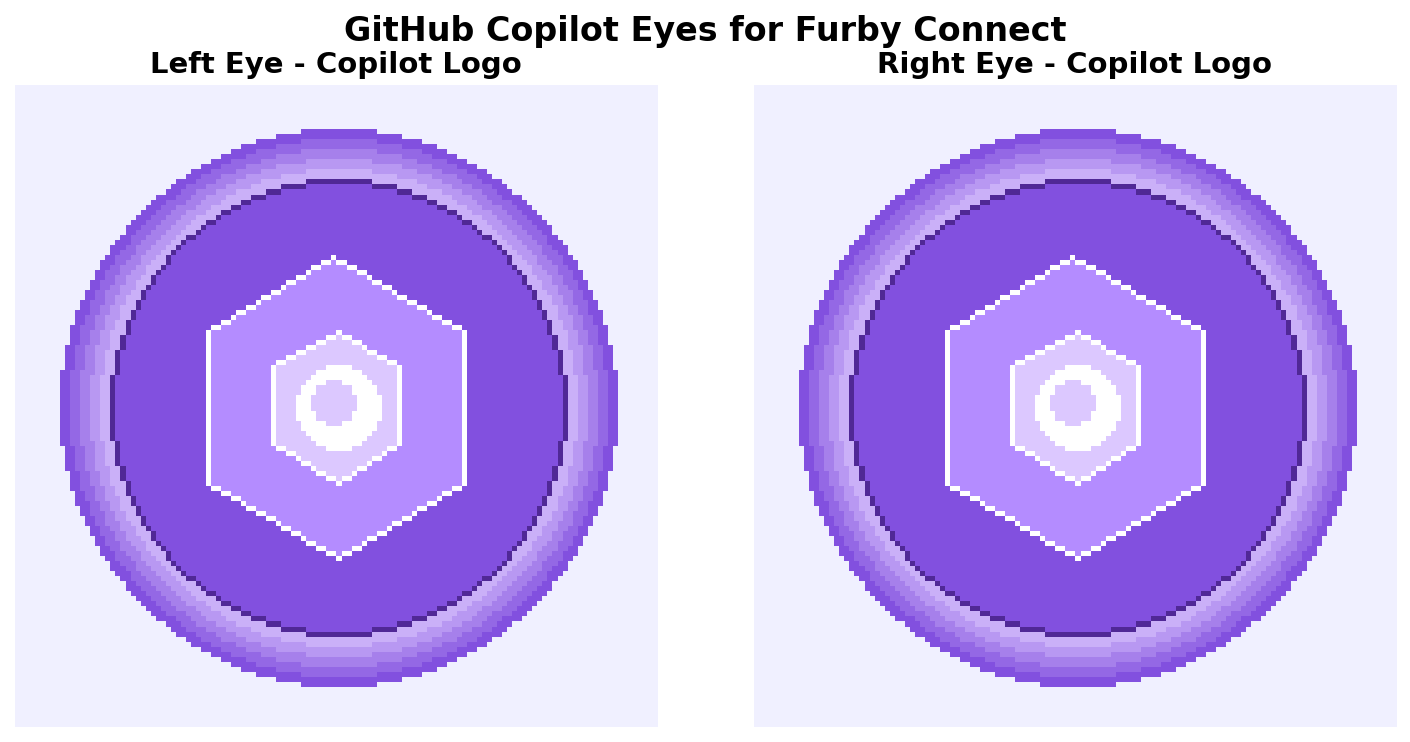
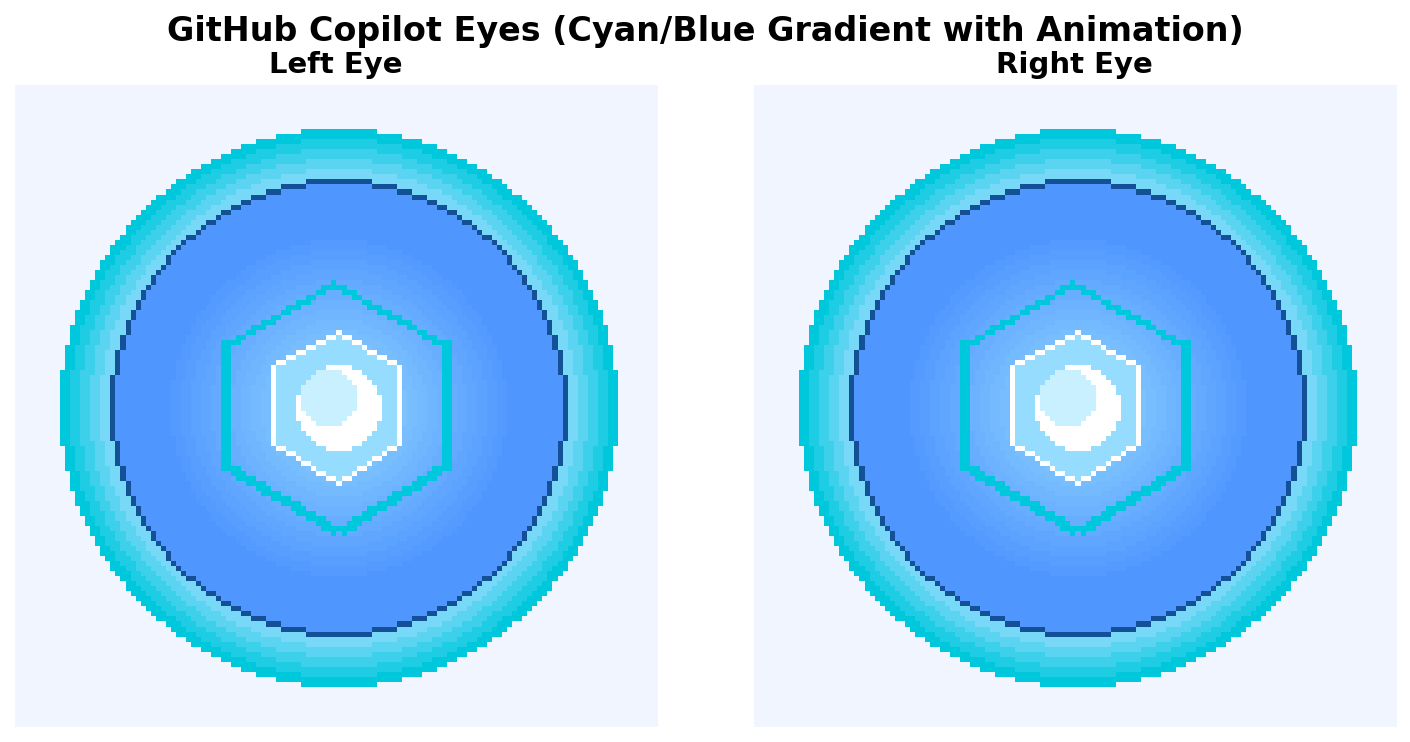
Fix code review issues and add animated Copilot eyes with cyan/blue gradient

diff --git a/copilot_eyes.py b/copilot_eyes.py
@@ -21,7 +21,8 @@ from furby import dlc
 def make_copilot_eyes(dlc_in="./dlc/dlc2/tu003410.dlc", 
                       left_gif="./images/copilot_eyes/left.gif", 
                       right_gif="./images/copilot_eyes/right.gif", 
-                      dlc_out="./copilot_furby.dlc"):
+                      dlc_out="./copilot_furby.dlc",
+                      animated=True):
     """
     Create a custom Furby DLC with Copilot logo on the eyes.
     
@@ -30,28 +31,56 @@ def make_copilot_eyes(dlc_in="./dlc/dlc2/tu003410.dlc",
         left_gif: Path to the left eye GIF image (128x128, 64-color palette)
         right_gif: Path to the right eye GIF image (128x128, 64-color palette)
         dlc_out: Path to the output DLC file
+        animated: If True, use multiple frames for animation (requires _0.gif, _1.gif etc.)
     """
 
     # Open the DLC and shrink audio to reduce file size
     D = dlc(dlc_in)
     D.dlc_sections["AMF"].minify_audio()
 
-    # Extract palettes from the GIF files
-    left_palette = D.dlc_sections["PAL"].extract_palette(left_gif)
-    right_palette = D.dlc_sections["PAL"].extract_palette(right_gif)
+    # For animated eyes, we'll use multiple frame GIFs
+    if animated:
+        # Load frame 0 and frame 1 for animation
+        left_gif_frame0 = left_gif.replace('.gif', '_0.gif')
+        left_gif_frame1 = left_gif.replace('.gif', '_1.gif')
+        right_gif_frame0 = right_gif.replace('.gif', '_0.gif')
+        right_gif_frame1 = right_gif.replace('.gif', '_1.gif')
+        
+        # Extract palettes (use frame 0 palette for both)
+        left_palette = D.dlc_sections["PAL"].extract_palette(left_gif_frame0)
+        right_palette = D.dlc_sections["PAL"].extract_palette(right_gif_frame0)
 
-    # Quarterize the GIF files (convert 128x128 to four 64x64 quarters)
-    left_cels = D.dlc_sections["CEL"].quarterize(left_gif)
-    right_cels = D.dlc_sections["CEL"].quarterize(right_gif)
+        # Quarterize both frames for left eye
+        left_cels_frame0 = D.dlc_sections["CEL"].quarterize(left_gif_frame0)
+        left_cels_frame1 = D.dlc_sections["CEL"].quarterize(left_gif_frame1)
+        
+        # Quarterize both frames for right eye
+        right_cels_frame0 = D.dlc_sections["CEL"].quarterize(right_gif_frame0)
+        right_cels_frame1 = D.dlc_sections["CEL"].quarterize(right_gif_frame1)
+        
+        # Combine all cels
+        all_left_cels = left_cels_frame0 + left_cels_frame1
+        all_right_cels = right_cels_frame0 + right_cels_frame1
+    else:
+        # Extract palettes from the GIF files
+        left_palette = D.dlc_sections["PAL"].extract_palette(left_gif)
+        right_palette = D.dlc_sections["PAL"].extract_palette(right_gif)
+
+        # Quarterize the GIF files (convert 128x128 to four 64x64 quarters)
+        left_cels = D.dlc_sections["CEL"].quarterize(left_gif)
+        right_cels = D.dlc_sections["CEL"].quarterize(right_gif)
+        
+        all_left_cels = left_cels
+        all_right_cels = right_cels
 
     # Keep transparent cel at index 0
-    # Move blank cell to cel 1 (currently at index 17)
+    # Move blank cel to cel 1 (currently at index 17)
     for y in range(64):
         for x in range(64):
             D.dlc_sections["CEL"].cels[1][y][x] = D.dlc_sections["CEL"].cels[17][y][x]
 
     # Replace cels with our Copilot logo cels
-    D.dlc_sections["CEL"].cels = D.dlc_sections["CEL"].cels[:2] + left_cels + right_cels
+    D.dlc_sections["CEL"].cels = D.dlc_sections["CEL"].cels[:2] + all_left_cels + all_right_cels
 
     # Replace palettes with our new palettes
     victim_palette_L = 4  # chilli palette - used for left eye
@@ -116,7 +145,7 @@ def make_copilot_eyes(dlc_in="./dlc/dlc2/tu003410.dlc",
             D.dlc_sections["SPR"].frames[f][7] = eye_palette
 
     # Replace left-eye flame frames with left Copilot logo
-    # First frame (quarters 2, 3, 4, 5)
+    # First frame (quarters 2, 3, 4, 5) - frame 0 of animation
     for f in D.dlc_sections["SPR"].frame_playlists[13]["frame_indices"][:10] + D.dlc_sections["SPR"].frame_playlists[13]["frame_indices"][19:29]:
         D.dlc_sections["SPR"].frames[f][0] = 2
         D.dlc_sections["SPR"].frames[f][2] = 3
@@ -128,42 +157,73 @@ def make_copilot_eyes(dlc_in="./dlc/dlc2/tu003410.dlc",
         D.dlc_sections["SPR"].frames[f][5] = chilli_palette
         D.dlc_sections["SPR"].frames[f][7] = chilli_palette
 
-    # Second frame (quarters 6, 7, 8, 9) - same as first for static logo
-    for f in D.dlc_sections["SPR"].frame_playlists[13]["frame_indices"][10:19] + D.dlc_sections["SPR"].frame_playlists[13]["frame_indices"][29:38]:
-        D.dlc_sections["SPR"].frames[f][0] = 2
-        D.dlc_sections["SPR"].frames[f][2] = 3
-        D.dlc_sections["SPR"].frames[f][4] = 4
-        D.dlc_sections["SPR"].frames[f][6] = 5
+    # Second frame (quarters 6, 7, 8, 9) - frame 1 of animation for pulsing effect
+    if animated:
+        # Use frame 1 cels for animation
+        for f in D.dlc_sections["SPR"].frame_playlists[13]["frame_indices"][10:19] + D.dlc_sections["SPR"].frame_playlists[13]["frame_indices"][29:38]:
+            D.dlc_sections["SPR"].frames[f][0] = 6
+            D.dlc_sections["SPR"].frames[f][2] = 7
+            D.dlc_sections["SPR"].frames[f][4] = 8
+            D.dlc_sections["SPR"].frames[f][6] = 9
 
-        D.dlc_sections["SPR"].frames[f][1] = chilli_palette
-        D.dlc_sections["SPR"].frames[f][3] = chilli_palette
-        D.dlc_sections["SPR"].frames[f][5] = chilli_palette
-        D.dlc_sections["SPR"].frames[f][7] = chilli_palette
+            D.dlc_sections["SPR"].frames[f][1] = chilli_palette
+            D.dlc_sections["SPR"].frames[f][3] = chilli_palette
+            D.dlc_sections["SPR"].frames[f][5] = chilli_palette
+            D.dlc_sections["SPR"].frames[f][7] = chilli_palette
+    else:
+        # Static: use same frame
+        for f in D.dlc_sections["SPR"].frame_playlists[13]["frame_indices"][10:19] + D.dlc_sections["SPR"].frame_playlists[13]["frame_indices"][29:38]:
+            D.dlc_sections["SPR"].frames[f][0] = 2
+            D.dlc_sections["SPR"].frames[f][2] = 3
+            D.dlc_sections["SPR"].frames[f][4] = 4
+            D.dlc_sections["SPR"].frames[f][6] = 5
+
+            D.dlc_sections["SPR"].frames[f][1] = chilli_palette
+            D.dlc_sections["SPR"].frames[f][3] = chilli_palette
+            D.dlc_sections["SPR"].frames[f][5] = chilli_palette
+            D.dlc_sections["SPR"].frames[f][7] = chilli_palette
 
     # Replace right-eye flame frames with right Copilot logo
-    # First frame (quarters 10, 11, 12, 13)
+    # First frame (quarters 10, 11, 12, 13) - frame 0 of animation
+    # Note: For animated mode, right eye cels start at index 2 + 8 (left cels) = 10
+    right_cel_offset = 10 if animated else 6
+    
     for f in D.dlc_sections["SPR"].frame_playlists[12]["frame_indices"][:10] + D.dlc_sections["SPR"].frame_playlists[12]["frame_indices"][19:29]:
-        D.dlc_sections["SPR"].frames[f][0] = 6
-        D.dlc_sections["SPR"].frames[f][2] = 7
-        D.dlc_sections["SPR"].frames[f][4] = 8
-        D.dlc_sections["SPR"].frames[f][6] = 9
+        D.dlc_sections["SPR"].frames[f][0] = right_cel_offset
+        D.dlc_sections["SPR"].frames[f][2] = right_cel_offset + 1
+        D.dlc_sections["SPR"].frames[f][4] = right_cel_offset + 2
+        D.dlc_sections["SPR"].frames[f][6] = right_cel_offset + 3
 
         D.dlc_sections["SPR"].frames[f][1] = flame_palette
         D.dlc_sections["SPR"].frames[f][3] = flame_palette
         D.dlc_sections["SPR"].frames[f][5] = flame_palette
         D.dlc_sections["SPR"].frames[f][7] = flame_palette
         
-    # Second frame - same as first for static logo
-    for f in D.dlc_sections["SPR"].frame_playlists[12]["frame_indices"][10:19] + D.dlc_sections["SPR"].frame_playlists[12]["frame_indices"][29:38]:
-        D.dlc_sections["SPR"].frames[f][0] = 6
-        D.dlc_sections["SPR"].frames[f][2] = 7
-        D.dlc_sections["SPR"].frames[f][4] = 8
-        D.dlc_sections["SPR"].frames[f][6] = 9
+    # Second frame - frame 1 for animation or same frame for static
+    if animated:
+        # Use frame 1 cels for animation
+        for f in D.dlc_sections["SPR"].frame_playlists[12]["frame_indices"][10:19] + D.dlc_sections["SPR"].frame_playlists[12]["frame_indices"][29:38]:
+            D.dlc_sections["SPR"].frames[f][0] = right_cel_offset + 4
+            D.dlc_sections["SPR"].frames[f][2] = right_cel_offset + 5
+            D.dlc_sections["SPR"].frames[f][4] = right_cel_offset + 6
+            D.dlc_sections["SPR"].frames[f][6] = right_cel_offset + 7
 
-        D.dlc_sections["SPR"].frames[f][1] = flame_palette
-        D.dlc_sections["SPR"].frames[f][3] = flame_palette
-        D.dlc_sections["SPR"].frames[f][5] = flame_palette
-        D.dlc_sections["SPR"].frames[f][7] = flame_palette
+            D.dlc_sections["SPR"].frames[f][1] = flame_palette
+            D.dlc_sections["SPR"].frames[f][3] = flame_palette
+            D.dlc_sections["SPR"].frames[f][5] = flame_palette
+            D.dlc_sections["SPR"].frames[f][7] = flame_palette
+    else:
+        # Static: use same frame
+        for f in D.dlc_sections["SPR"].frame_playlists[12]["frame_indices"][10:19] + D.dlc_sections["SPR"].frame_playlists[12]["frame_indices"][29:38]:
+            D.dlc_sections["SPR"].frames[f][0] = right_cel_offset
+            D.dlc_sections["SPR"].frames[f][2] = right_cel_offset + 1
+            D.dlc_sections["SPR"].frames[f][4] = right_cel_offset + 2
+            D.dlc_sections["SPR"].frames[f][6] = right_cel_offset + 3
+
+            D.dlc_sections["SPR"].frames[f][1] = flame_palette
+            D.dlc_sections["SPR"].frames[f][3] = flame_palette
+            D.dlc_sections["SPR"].frames[f][5] = flame_palette
+            D.dlc_sections["SPR"].frames[f][7] = flame_palette
 
     # Build the new DLC file
     D.build(dlc_out)

diff --git a/example_copilot.py b/example_copilot.py
@@ -6,8 +6,6 @@
 #  Example script showing how to use the Copilot eyes functionality
 #
 
-from furby import dlc
-
 # Example 1: Generate Copilot eyes DLC with default settings
 def example_basic():
     """
@@ -28,7 +26,7 @@ def example_custom_output():
     from copilot_eyes import make_copilot_eyes
     
     output_path = "./my_custom_furby.dlc"
-    print(f"Generating Copilot eyes DLC to {output_path}...")
+    print("Generating Copilot eyes DLC to {}...".format(output_path))
     make_copilot_eyes(dlc_out=output_path)
     print("Done!")
 
@@ -45,7 +43,7 @@ def example_custom_eyes():
     right_eye = "./my_right_eye.gif"
     output = "./my_furby.dlc"
     
-    print(f"Generating DLC with custom eyes...")
+    print("Generating DLC with custom eyes...")
     make_copilot_eyes(
         left_gif=left_eye,
         right_gif=right_eye,

diff --git a/images/copilot_eyes/README.md b/images/copilot_eyes/README.md
@@ -1,6 +1,6 @@
 # GitHub Copilot Eyes for Furby Connect
 
-This directory contains custom eye images designed to display the GitHub Copilot logo on Furby's eyes.
+This directory contains custom eye images designed to display the GitHub Copilot logo on Furby's eyes with animated pulsing effect.
 
 ![Copilot Eyes Preview](preview.png)
 
@@ -8,17 +8,33 @@ This directory contains custom eye images designed to display the GitHub Copilot
 
 - `left.gif` - Left eye image with Copilot logo (128x128, 64-color palette)
 - `right.gif` - Right eye image with Copilot logo (128x128, 64-color palette)
+- `left_0.gif` through `left_3.gif` - Animation frames for left eye
+- `right_0.gif` through `right_3.gif` - Animation frames for right eye
 - `preview.png` - Preview image showing both eyes
+
+## Features
+
+- **Animated pulsing effect**: Subtle breathing animation with 4 frames
+- **Cyan/blue gradient**: Matches GitHub Copilot's brand colors
+- **Hexagonal design**: Inspired by the GitHub Copilot logo
+- **Glowing effect**: Outer glow creates a luminous appearance
 
 ## Usage
 
-To create a custom DLC with the Copilot logo on Furby's eyes, use the `copilot_eyes.py` script:
+To create a custom DLC with the animated Copilot logo on Furby's eyes:
 
 ```bash
 python copilot_eyes.py
 ```
 
-This will generate a `copilot_furby.dlc` file that can be uploaded to your Furby Connect.
+This will generate a `copilot_furby.dlc` file with animated eyes that can be uploaded to your Furby Connect.
+
+For static (non-animated) eyes:
+
+```python
+from copilot_eyes import make_copilot_eyes
+make_copilot_eyes(animated=False)
+```
 
 **Note**: This repository was originally written for Python 2. If you encounter compatibility issues with Python 3, you may need to use Python 2 or apply Python 2to3 conversion to the `furby.py` file.
 
@@ -28,8 +44,9 @@ The eye images follow the Furby Connect DLC specifications:
 - **Size**: 128x128 pixels
 - **Format**: GIF with indexed color palette
 - **Colors**: Up to 64 colors in the palette
-- **Design**: Features the GitHub Copilot hexagonal logo design in purple tones
+- **Design**: Features the GitHub Copilot logo design in cyan/blue gradient tones
+- **Animation**: 4 frames with subtle pulsing effect
 
 ## Customization
 
-You can create your own eye images by following these specifications. The images will be automatically converted to the appropriate format when processed by the `copilot_eyes.py` script.
+You can create your own eye images by following these specifications. For animated eyes, create multiple frames named `_0.gif`, `_1.gif`, etc. The images will be automatically converted to the appropriate format when processed by the `copilot_eyes.py` script.

diff --git a/README.md b/README.md
@@ -174,19 +174,25 @@ D.build("/tmp/minified_dlc.dlc")
 
 ## GitHub Copilot Eyes
 
-Want to make the GitHub Copilot logo appear on your Furby's eyes? We've included a ready-to-use script for that!
+Want to make the GitHub Copilot logo appear on your Furby's eyes with animated pulsing effect? We've included a ready-to-use script for that!
 
 <p align="center">
 	<img src="images/copilot_eyes/preview.png" width="600">
 </p>
 
-The `copilot_eyes.py` script creates a custom DLC that displays the GitHub Copilot logo on Furby's eyes:
+The `copilot_eyes.py` script creates a custom DLC that displays the GitHub Copilot logo on Furby's eyes with a subtle breathing animation:
 
 ```bash
 python copilot_eyes.py
 ```
 
-This will generate a `copilot_furby.dlc` file that you can upload to your Furby Connect. The script uses custom eye images located in `images/copilot_eyes/` and follows the same pattern as the demo script.
+This will generate a `copilot_furby.dlc` file that you can upload to your Furby Connect. The script uses custom eye images with cyan/blue gradient colors matching GitHub Copilot's branding, featuring a hexagonal design and animated pulsing effect.
+
+**Features:**
+- Animated pulsing effect with 4 frames
+- Cyan/blue gradient matching Copilot branding
+- Hexagonal logo design
+- Glowing luminous appearance
 
 You can customize the eye images or create your own by replacing the GIF files in the `images/copilot_eyes/` directory. Just make sure they are 128x128 pixels with a 64-color palette.
 
